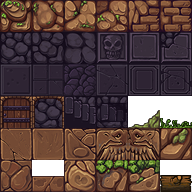
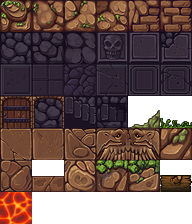
Put lava tile back into tiles

diff --git a/assets/tiles.tsx b/assets/tiles.tsx
@@ -1,6 +1,6 @@
 <?xml version="1.0" encoding="UTF-8"?>
-<tileset version="1.2" tiledversion="1.2.2" name="tiles" tilewidth="32" tileheight="32" tilecount="36" columns="6">
- <image source="tiles.png" width="192" height="192"/>
+<tileset version="1.2" tiledversion="1.2.2" name="tiles" tilewidth="32" tileheight="32" tilecount="42" columns="6">
+ <image source="tiles.png" width="192" height="224"/>
  <tile id="0">
   <properties>
    <property name="collides" type="bool" value="true"/>
@@ -215,6 +215,11 @@
   <properties>
    <property name="collides" type="bool" value="true"/>
    <property name="type" value="rock"/>
+  </properties>
+ </tile>
+ <tile id="36">
+  <properties>
+   <property name="type" value="lava"/>
   </properties>
  </tile>
 </tileset>
